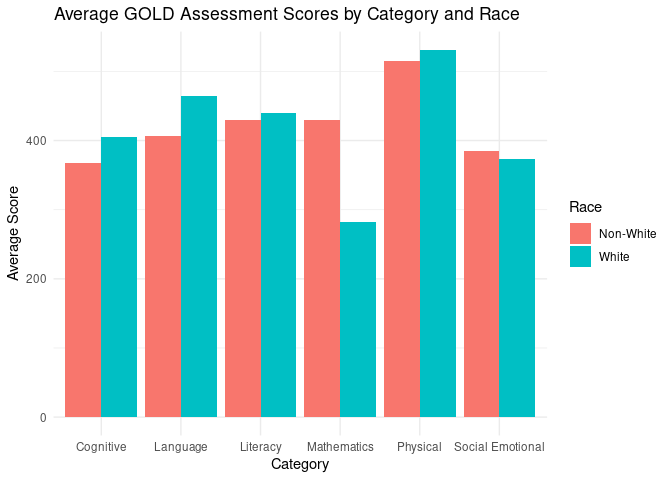
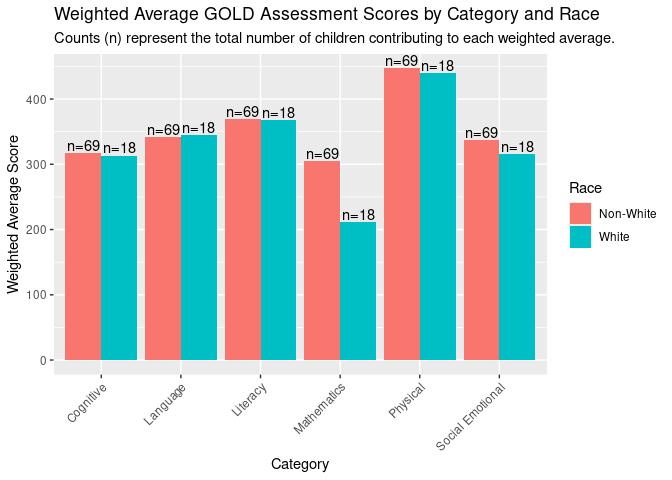
Revised exploratory graph

diff --git a/proposal/proposal.md b/proposal/proposal.md
@@ -87,21 +87,22 @@ Early Head Start (EHS) programs into unified columns, because the
 original dataset had some categories arranged in columns and others in
 rows.
 
-`Category` = `which aspect is being tested` `WHE Bottom` =
-`Bottom widely held expectation scores` `WHE Top` =
-`Top widely held expectation scores` `Average` = `Average scores`
-`# Children` = `Number of children being tested` `# Below` =
-`Number of students below average` `% Below` =
-`Percent of students below average` `# Meeting` =
-`Number of students meeting expectations` `% Meeting` =
-`Percentage of students meeting expectations` `# exceeding` =
-`Number of students exceeding expectations` `% exceeding` =
-`The percentage of students exceeding expectations` `Time period` =
-`Fall, winter, or spring trimesters` `Age range` =
-`The age range of the students` `White` =
-`If the student is white or not` `Dual Language` =
-`If the student is a dual language learner or not` `Multi-Year` =
-`If the student is a Multi-Year student or not`
+- `Category` = `which aspect is being tested`
+- `WHE Bottom` = `Bottom widely held expectation scores`
+- `WHE Top` = `Top widely held expectation scores`
+- `Average` = `Average scores`
+- `# Children` = `Number of children being tested`
+- `# Below` = `Number of students below average`
+- `% Below` = `Percent of students below average`
+- `# Meeting` = `Number of students meeting expectations`
+- `% Meeting` = `Percentage of students meeting expectations`
+- `# exceeding` = `Number of students exceeding expectations`
+- `% exceeding` = `The percentage of students exceeding expectations`
+- `Time period` = `Fall, winter, or spring trimesters`
+- `Age range` = `The age range of the students`
+- `White` = `If the student is white or not`
+- `Dual Language` = `If the student is a dual language learner or not`
+- `Multi-Year` = `If the student is a Multi-Year student or not`
 
 ``` r
 #GOLD assessment results for all EHS students
@@ -217,44 +218,70 @@ glimpse(EHS_multi_year)
 ## 3. Data analysis plan
 
 The variables we will be visualizing to explore the research questions
-include: `Dual Language` `Dual Language`, `category`, and `Average`
-`Multi-year` X (TBD- waiting for IEP data) .`Time period` `White`
+include:
 
-Other data needed:
+`Dual Language`
 
-We hope to explore IEP students’ development, but we are currently
-waiting for Early Head Start to upload the data for the 2024-2025 year.
-This will be variable number 6 which is TBD currently.
+`category`
+
+`Average`
+
+`Multi-year`
+
+X (TBD- waiting for IEP data)
+
+`Time period`
+
+`White`
 
 Types of graphs we may want to use:
 
--Line plot - to show the distribution of scores deviating away from the
-average for each `category` - Waffle plots - To compare multi-year and
-not multi-year students -Box Plot - showing the range of average scores
--Bar Graph - to compare students meeting, exceeding, and below
-expectations - Bar Graph - to compare differences among distinctions
-like race and language
+- Line plot : to show the distribution of scores deviating away from the
+  average for each `category`
+- Waffle plots : To compare multi-year and not multi-year students
+- Box Plot : showing the range of average scores
+- Bar Graph : to compare students meeting, exceeding, and below
+  expectations
+- Bar Graph : to compare differences among distinctions like race and
+  language
 
 ``` r
 EHS_with_race |>
   mutate(Race_Group = if_else(`White (Yes or No)` == "Yes", "White", "Non-White")) |>
-  ggplot(aes(x = Category, y = Average, fill = Race_Group)) +
-  geom_col(position = "dodge")+
+  group_by(Category, Race_Group) |>
+  summarise(
+    Weighted_Average = sum(Average * `# Children`) / sum(`# Children`),
+    Total_Children = sum(`# Children`)
+  ) |>
+  ggplot(aes(x = Category, y = Weighted_Average, fill = Race_Group)) +
+  geom_col(position = position_dodge()) +
+  geom_text(
+    aes(label = paste0("n=", Total_Children)),
+    position = position_dodge(width = 0.9),
+    vjust = -0.2
+  ) +
   labs(
-    title = "Average GOLD Assessment Scores by Category and Race",
+    title = "Weighted Average GOLD Assessment Scores by Category and Race",
+    subtitle = "Counts (n) represent the total number of children contributing to each weighted average.",
     x = "Category",
-    y = "Average Score",
+    y = "Weighted Average Score",
     fill = "Race"
   ) +
-  theme_minimal() 
+  theme(axis.text.x = element_text(angle = 45, hjust = 1))
 ```
 
+    ## `summarise()` has grouped output by 'Category'. You can override using the
+    ## `.groups` argument.
+
 ![](proposal_files/figure-gfm/preliminary-exploratory-data-analysis-bar-graph-1.png)<!-- -->
+
 Our first preliminary exploratory data analysis is a bar graph comparing
-GOLD assessment scores between races. This visualization shows that
-generally, scores are similar between races, but white students tend to
-do slightly better in each category, excluding mathematics, where
-non-white students preform better. Exploring this graph is useful as it
-showed us the limitations of what visualizations work and don’t work
+GOLD assessment scores between races using a weighted average. This
+visualization shows that generally, scores are similar between races,
+except for non-white students scoring significantly better in
+mathematics. Exploring this graph is useful as it showed us the
+importance of a weighted averages in our dataset. When we have different
+number of students, the average value of the score will turn out
+differently. It also shows us what visualizations work and don’t work
 with data regarding race, for example, a ridge plot would not be able to
 show this data because we don’t have enough average data points.
